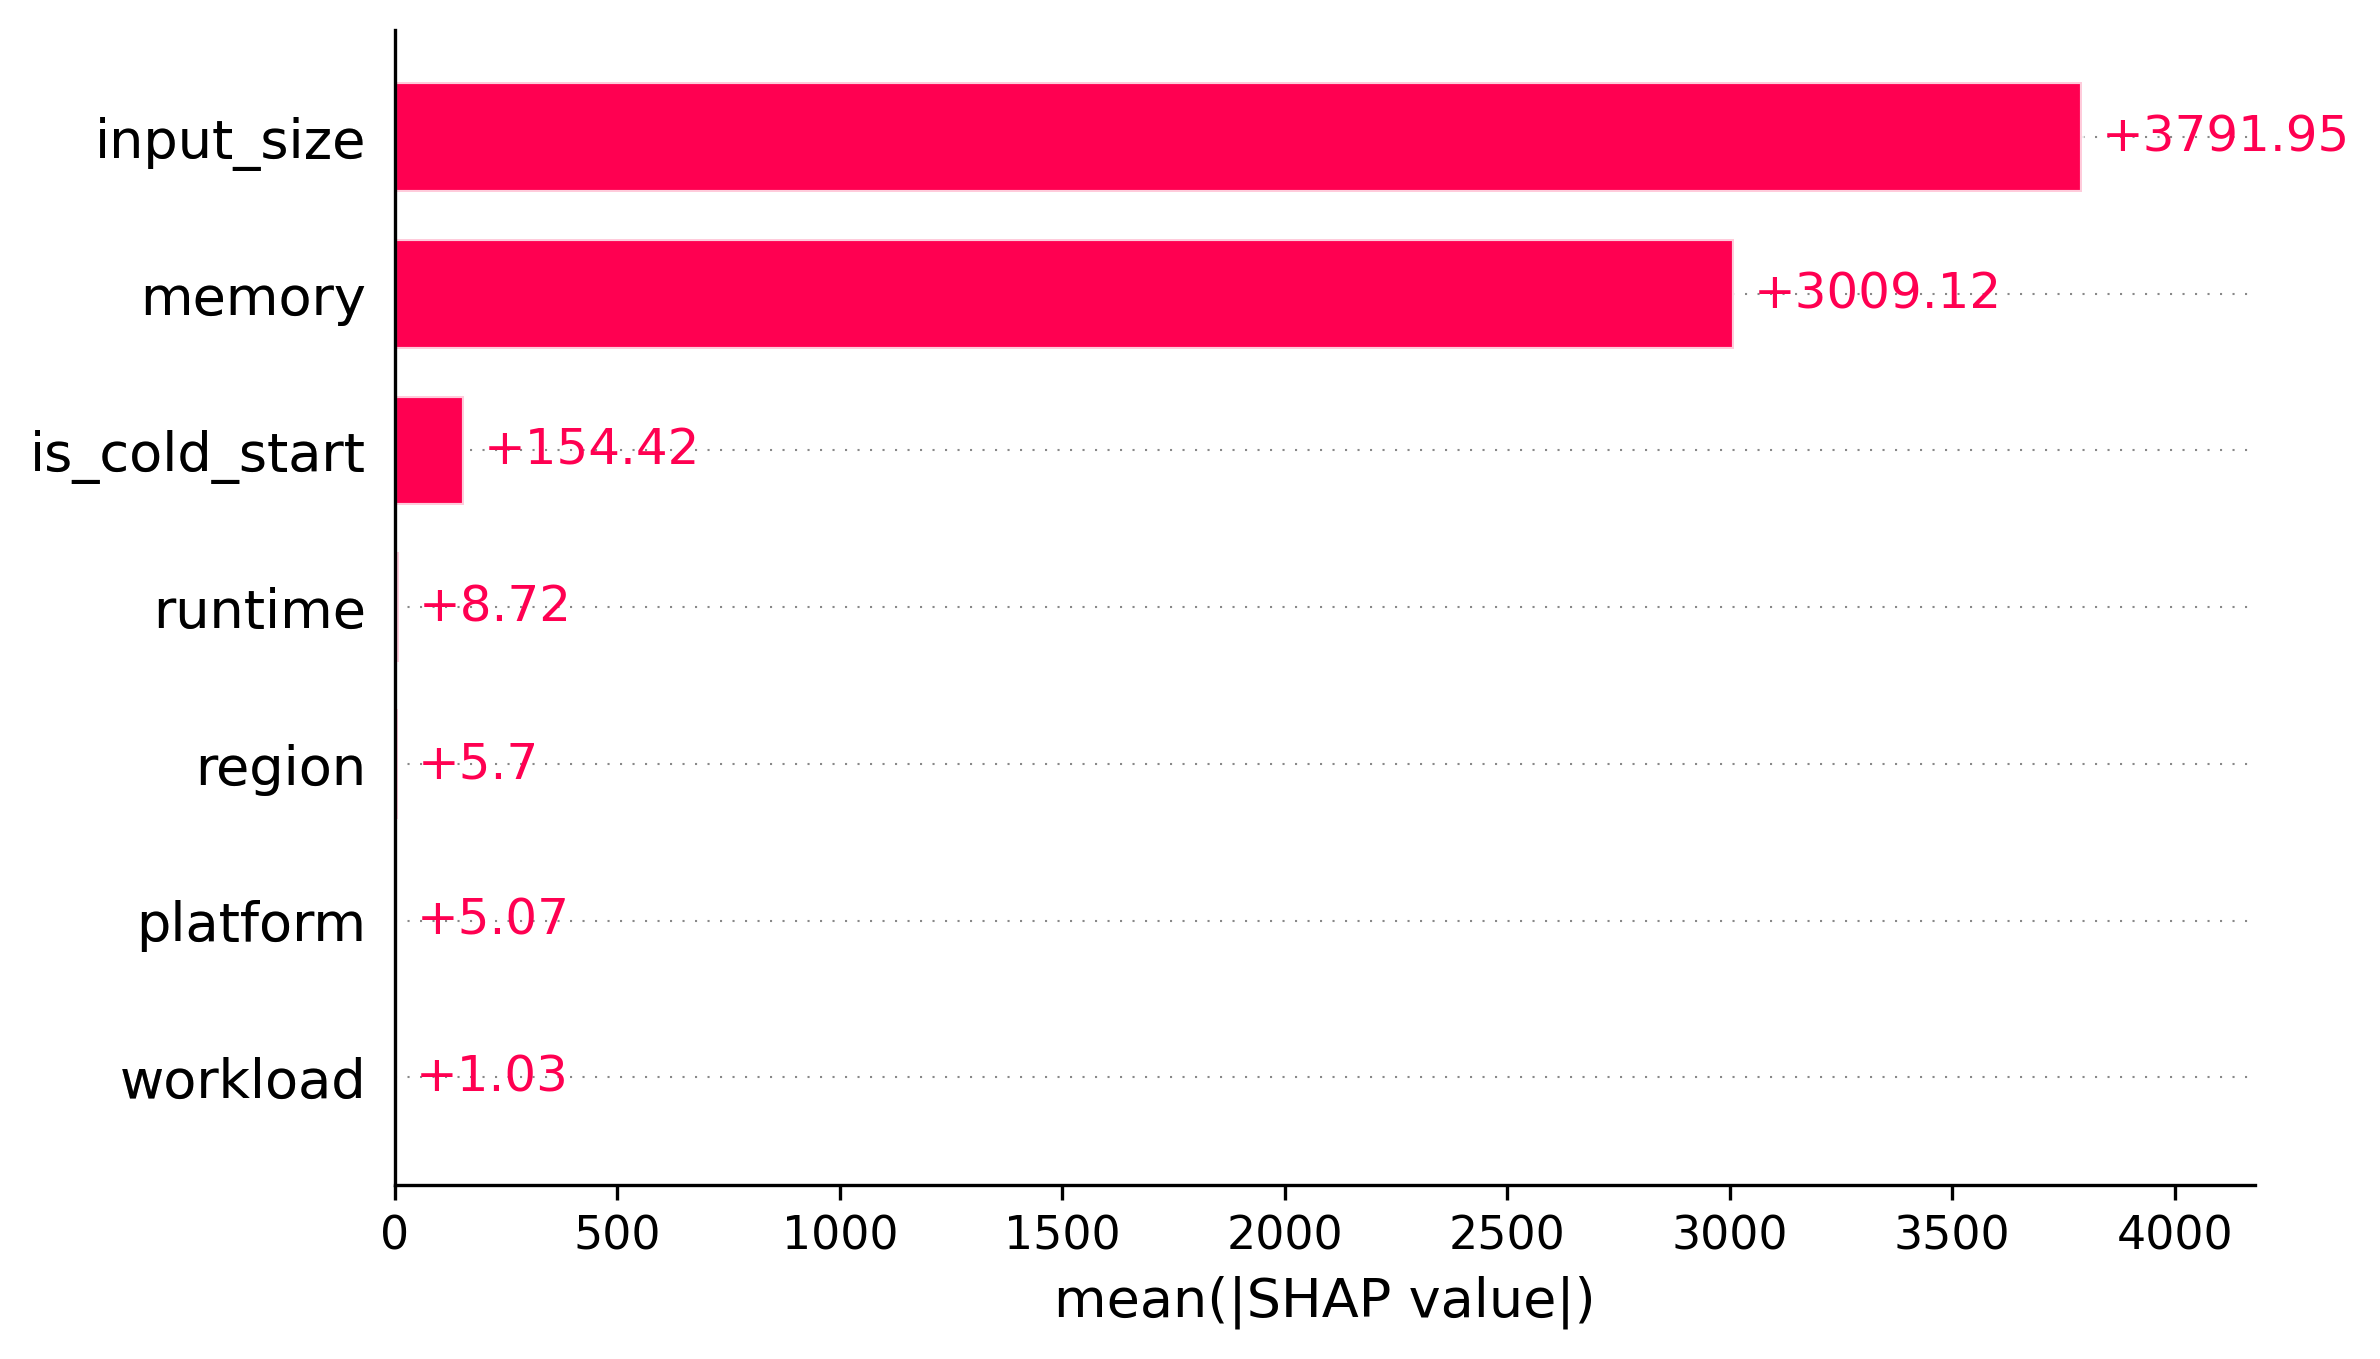
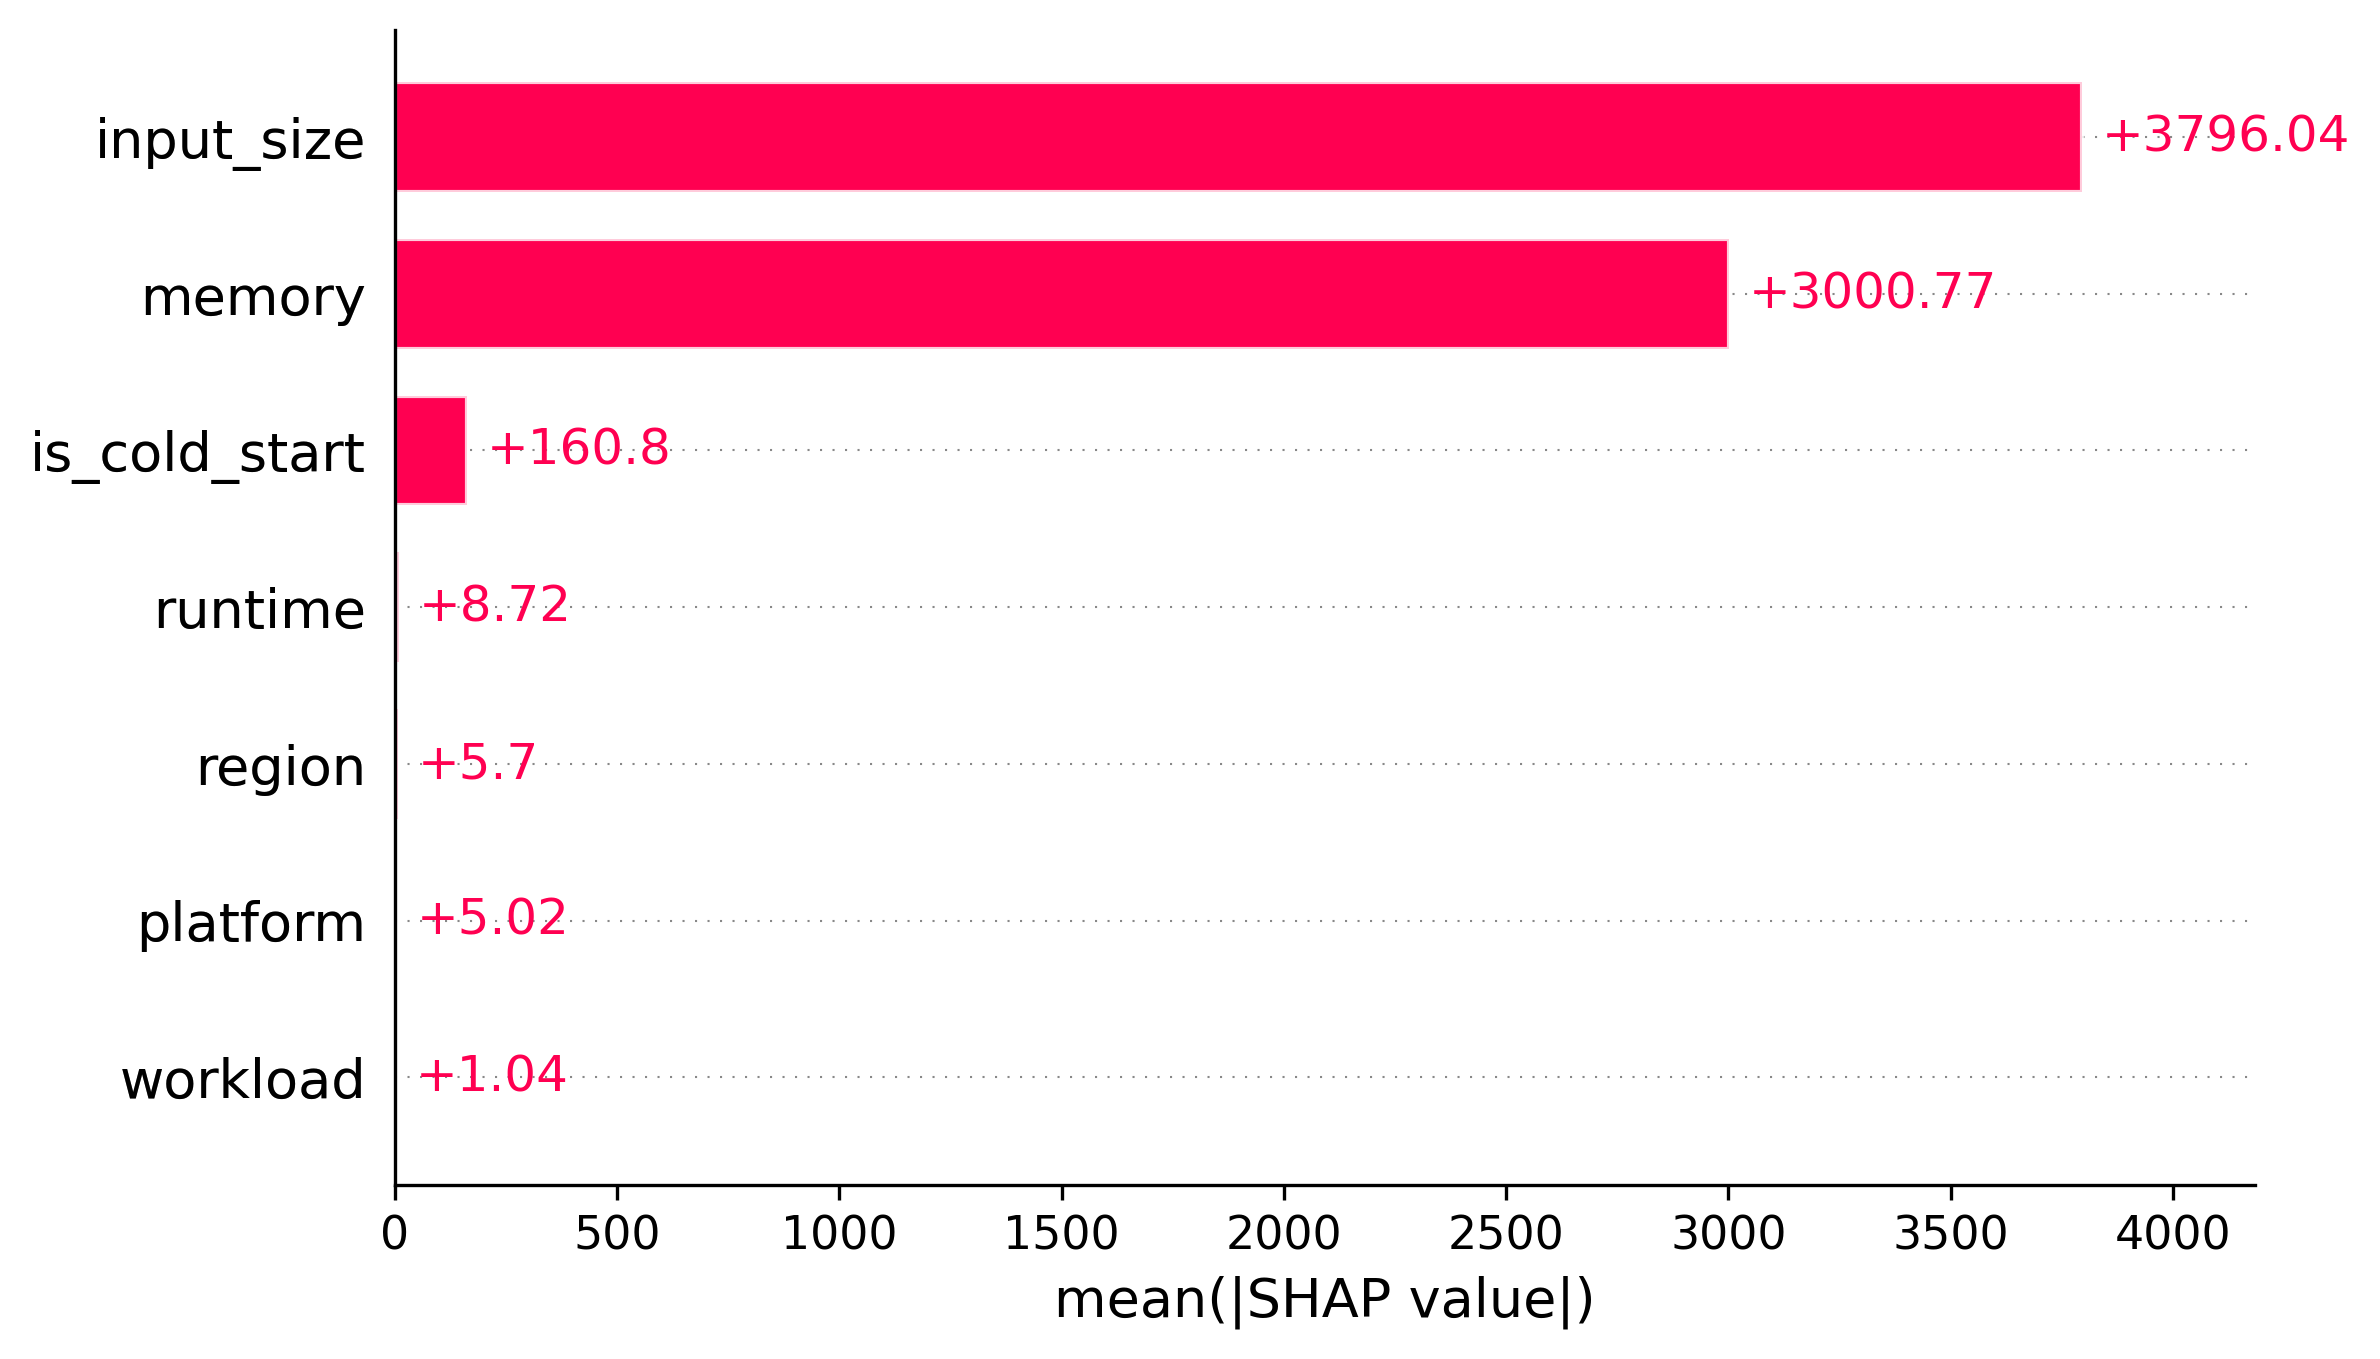
feat: add SHAP analysis script and output plots for cost and duration models

diff --git a/models/run_shap_analysis.py b/models/run_shap_analysis.py
@@ -27,9 +27,8 @@ def main():
         if col in X.columns:
             X[col] = X[col].astype(str)
             
-    # Sub-sample the dataset for faster SHAP calculation (optional, but recommended for large datasets)
-    # Using 10,000 samples for the explanation
-    X_sample = X.sample(n=min(10000, len(X)), random_state=42)
+    # Use all rows in the dataset for SHAP calculation
+    X_sample = X
     
     # Model files to analyze
     models_to_analyze = [
